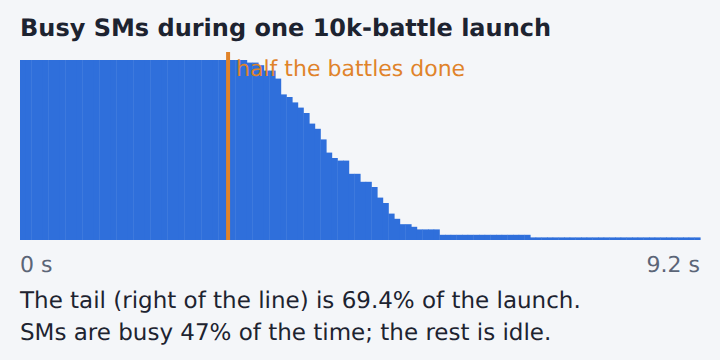
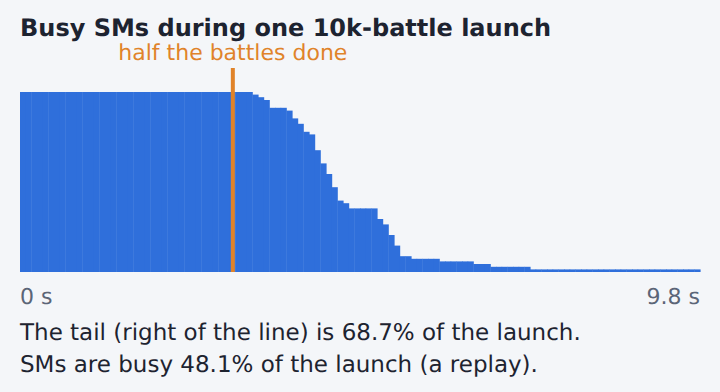
gpu round 9: page fixes from check round 1 (glossary, plain wording, full runs as fact 3), timeline and full default reruns, emoji-wrapping phone shots
Claude-Session: https://claude.ai/code/session_01Ws3K6hiVf42Evxx3QjPVsr

diff --git a/gpu/gpu/study/check_page.py b/gpu/gpu/study/check_page.py
@@ -94,6 +94,8 @@ def expected():
     for v, r in full.items():
         if r and r["exit"] == 0:
             E[f"full.{v}.min"], E[f"full.{v}.warm"], E[f"full.{v}.gens"] = r["total"] / 60, r["warm"], r["gens"]
+    if full["tail"] and full["tail"]["exit"] == 0:
+        E["full.tail.latewait"] = full["tail"]["late"]
     for v in ("tail", "certain"):
         if full[v] and full["default"] and full[v]["total"] and full["default"]["total"]:
             E[f"full.{v}.dmin"] = (full[v]["total"] - full["default"]["total"]) / 60

diff --git a/docs/gpu-viability.md b/docs/gpu-viability.md
@@ -390,7 +390,7 @@ at 390 px (`out/gpu/study/phone/`). Plain-words version: `docs/gpu-round9-explai
 time through `out/gpu/study/r9chain.sh` under `flock out/gpu/study/gpu.lock`.
 
 - **What was built.** `POGO_GPU_STUDY=tail` (`gpu/gpu/study/tail/variant.py`, kernel `battle3v3_tail`): once half the
-  workers of a launch are idle (`POGO_GPU_TAIL_IDLE=0.5`), idle threads run the next halving round's likely battles.
+  threads of a launch are idle (`POGO_GPU_TAIL_IDLE=0.5`, a design choice, not tuned by measurement), idle threads run the next halving round's likely battles.
   Their results only enter the battle memo, so a checkpoint never changes, and a filler battle never extends the launch
   (it stops within one lookahead step of the main battles' end). `tail,certain` adds the battles of teams already sure
   to pass the cut (a JS port of the certainty check) through an in-kernel queue fed while the launch runs. Both are off
@@ -400,16 +400,17 @@ time through `out/gpu/study/r9chain.sh` under `flock out/gpu/study/gpu.lock`.
   each). CPU-only 2-gen and default-GPU 5-gen checkpoints equal round 8's (`out/gpu/study/det-r9.txt`).
 - **Speed (reference A/B, started 2026-10-17 18:34 ET, 3 rounds × default/tail/certain, 10 gens, halving 3).** Warm
   s/gen: default 12.23 (spread 0.13), tail 11.83 (0.26), tail,certain 11.59 (0.73). Tail beats both spreads (−0.41 s);
-  certain does not (−0.64 s inside its own 0.73 spread). Tail share rises from 42.3% to 55.4%, because the filler work
-  sits in the tail. Per launch the filler ran 3,315 battles; 65% finished in time and 49% were later used.
-- **Full runs (100 gens, standard).** Default 17.2 min (12:15–12:32 ET), tail 17.4 min (18:54–19:12 ET), tail,certain
-  17.0 min (19:12–19:29 ET); one run each, so no spread. Warm s/gen 10.09 / 10.26 / 10.05: the 10-gen gain of tail did
+  certain does not (−0.64 s inside its own 0.73 spread). Tail share rises from 42.3% to 55.4%: the filler work
+  sits in the tail, and later rounds find battles already done, so the non-tail kernel time falls (about 6.2 → 3.7 s/gen). Per launch with a next-round pool (2 of 3 per generation) the filler ran 3,315 battles; 65% finished in time and 49% were later used.
+- **Full runs (100 gens, standard).** Default 17.2 min (19:48–20:05 ET), tail 17.4 min (18:54–19:12 ET), tail,certain
+  17.0 min (19:12–19:29 ET); one run each, so no spread. Warm s/gen 10.08 / 10.26 / 10.05: the 10-gen gain of tail did
   not carry over to 100 gens.
-- **SM-active timeline** (replay of dumped launches, `out/gpu/study/prof/tail-timeline.json`): on the 10k launch SMs
-  are busy 47.0% of the launch with the default, 55.3% with tail, 57.7% with tail,certain, but the launch ends 0.48 s
-  later with tail. A launch still ends with its longest battle.
+- **SM-active timeline** (replay of dumped launches on the fixed code, 19:44 ET, `out/gpu/study/prof/tail-timeline.json`;
+  the next-round pool is a stand-in, up to 6,000 battles of another dumped launch): on the 10k launch SMs are busy 48.1%
+  of the launch with the default, 55.4% with tail, 60.2% with tail,certain, but the launch ends 0.54 s later with
+  tail. A launch still ends with its longest battle. The Nsight cards on the page do not include this share.
 - **Nsight Compute** (counters now allowed; `out/gpu/study/prof/ncu/summary.json`, 5k and 10k launches at base
-  clocks): long-scoreboard stalls 51.5% of stall cycles, issue-slot use 12.5%, achieved occupancy 15.6%, local memory
+  clocks): long-scoreboard waits 51.5% of all warp cycles (55.0% of non-issuing cycles), issue-slot use 12.5%, achieved occupancy 15.6%, local memory
   99.87% of L1 bytes (844 GB in a 3.9 s launch), L1 hit 82.9%, L2 hit 86.9%. The 36k launch and the tail kernel have no
   Nsight numbers: replay ends in `LaunchFailed (CUDA error 999)` and resets the Windows display driver, and a launch the
   host feeds while it runs cannot be replayed.

diff --git a/docs/gpu-round9-explained.md b/docs/gpu-round9-explained.md
@@ -22,7 +22,7 @@ Each battle keeps about 39,000 bytes of state in local memory: teams, HP, energy
 
 Local memory is GPU main memory, reached through the L1 and L2 caches.
 
-Nsight Compute, NVIDIA's profiler, shows this is nearly all L1 traffic. Warps mostly wait for it.
+Nsight Compute, NVIDIA's profiler, shows this is nearly all L1 traffic. Half of all warp cycles wait for it.
 
 Shared memory sits inside the SM. Keeping the hot state there would remove most of those waits.
 
@@ -36,11 +36,11 @@ A launch still waits for its longest battle, so order barely matters, and each i
 
 ## The tail, and why it is the target
 
-![Busy SMs over a 10k-battle launch: all 68 busy, then a long drop after half the battles finish](gpu-r9-tail.png)
+![Busy SMs over a 10k-battle launch: all 68 busy, then a slow drop after half the battles finish](gpu-r9-tail.png)
 
-The tail is the end of a launch, after half its battles are done.
+The tail is the end of a launch, from when half its battles are done until the last one ends.
 
-Most of the GPU's 68 cores (SMs) then have nothing left to run.
+In it the GPU's 68 cores (SMs) run out of work one by one.
 
 Round 9 filled that idle time with the next round's battles. The SMs stayed busier, but the launch still ends
 with its longest battle.
@@ -49,7 +49,9 @@ with its longest battle.
 
 ![Round 9 A/B: one dot per run for default, tail filler and certain feed](gpu-r9-noise.png)
 
-Warm s/gen is the mean seconds per generation once the battle cache has filled. Earlier, slower generations are left out.
+Warm s/gen: mean seconds per generation once the cache hit rate has levelled off.
+
+The slower early generations are left out.
 
 The same run repeated gives a slightly different time. The spread, slowest minus fastest, is that noise.
 
